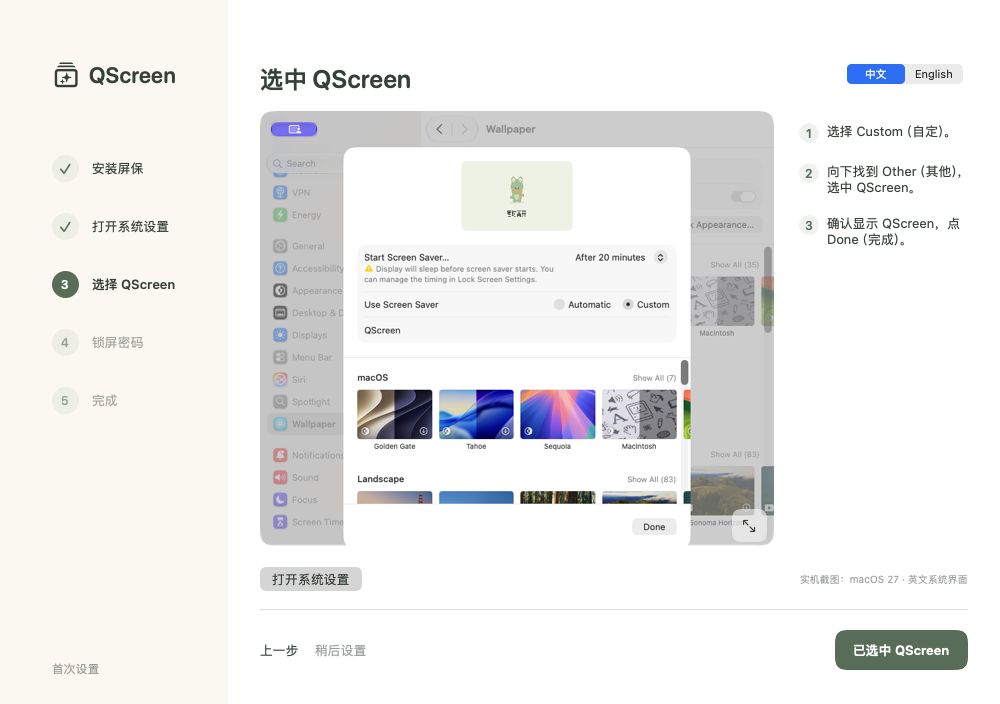
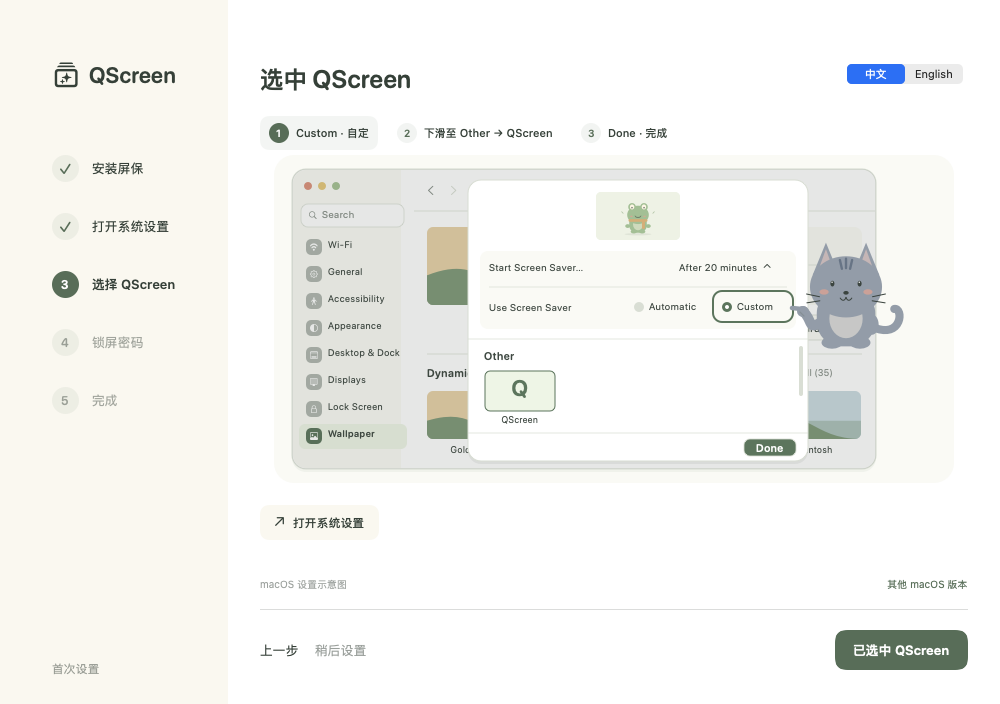
Release 0.5.1 with illustrated setup previews and reference documentation

Changed region(s): [[0.248, 0.1562, 0.961, 0.8438], [0.806, 0.8125, 0.961, 0.8438]]

diff --git a/README.md b/README.md
@@ -42,12 +42,12 @@ bash scripts/install.sh
 首次打开会自动进入独立的五步设置向导：
 
 1. 安装屏保；已安装时会直接显示检查结果。
-2. 打开系统「墙纸」，按实机截图找到顶部的「Screen Saver…／屏幕保护程序」。
+2. 打开系统「墙纸」，按卡通示意图找到顶部的「Screen Saver…／屏幕保护程序」。
 3. 选择「Custom／自定」，在「Other／其他」中选中 QScreen，点 Done 后回到向导确认。这是用户确认，App 不会修改系统的屏保选择。
 4. 在系统「锁屏」设置中，将启动屏保后要求输入密码设为「Immediately／立即」。向导会检测策略，未确认立即要求密码时不能完成。
 5. 预览并开始使用。预览不锁屏；完成设置会再次检查安装、选择确认与密码策略。
 
-向导附带 macOS 27 的真实系统设置截图，可点击右下角图标放大。截图为静态资源，使用向导不需要录屏或辅助功能权限。旧版系统的界面可能不同，向导提供 Apple 的对应帮助入口。
+三页设置指引使用统一尺寸的卡通模拟窗口，控件布局参考 macOS 27。小熊、猫咪和青蛙用短手臂指向要点击的位置；选择屏保时可依次查看 Custom、下滑至 Other → QScreen 和 Done 三个位置。操作按钮固定在示意图下方。示意图由 App 原生绘制，使用向导不需要录屏或辅助功能权限；旧版系统可打开 Apple 的对应帮助入口。
 
 未完成就退出时，下次打开会恢复进度；「稍后设置」不会被标记为完成。已有用户升级后不会被强制重走，可在「设置 → 设置向导」重新打开。
 
@@ -75,7 +75,7 @@ bash scripts/install.sh
 
 自动测试覆盖倒计时边界、超时、损坏数据、状态过期、睡眠后时间连续性、亮屏截止时间、跨进程状态读写、不同偏好域之间的实时状态同步和清除、中英文切换与持久化、英文分钟单复数、六种画面的双语渲染，以及原生 `.saver` 的加载和启停。`--smoke-test` 还会输出中英文 App、设置页和快速菜单截图，以及时长保存和语言切换结果到 `/tmp/qscreen-smoke/`，不会触发锁屏。
 
-`--setup-smoke-test` 会在 `/tmp/qscreen-setup-smoke/` 生成中英文共十张向导截图，检查资源载入、进度恢复和完成条件，并恢复测试前的向导偏好。流程单元测试覆盖首次使用、未完成恢复、已有用户迁移、损坏的进度及缺失设置的组合。
+`--setup-smoke-test` 会在 `/tmp/qscreen-setup-smoke/` 生成中英文共十张向导截图，同时渲染五个指示位置的 680 × 328 卡通示意图，检查进度恢复和完成条件，并恢复测试前的向导偏好。流程单元测试覆盖首次使用、未完成恢复、已有用户迁移、损坏的进度及缺失设置的组合。
 
 绘制测试还会模拟系统无法创建圆角字体的情况，验证回退字体不会导致 App 或屏保崩溃。锁定策略测试验证延迟密码、未知状态、失败命令及矛盾输出都不能启动离席。启动诊断记录在 `~/Library/Logs/QScreen/`，仅包含本地运行状态；`open -g qscreen://diagnostics` 可刷新当前锁定策略和安装状态快照。
 

diff --git a/docs/ACCEPTANCE.md b/docs/ACCEPTANCE.md
@@ -12,12 +12,13 @@
 - 0.3.0 双语检查：菜单和设置提供「中文 / English」切换，主窗口和屏保使用同一语言；检查英文分钟单复数、超时及无倒计时文案、跨进程语言持久化、偏好隔离条件下实时切换语言而不重置会话，以及六种屏保的中英文渲染。
 - 0.4.0 自定义检查：在 App 的实际文本框中输入「Walking the dog」和 25 分钟，预览会话通过校验，理由、角色和时长已保存；空理由不能启动。跨进程测试验证自定义理由、角色、25 分钟截止时间和清除操作；原生模块渲染测试覆盖长英文、中文及 emoji。此次没有触发真实锁屏。
 - 0.5.0 设置向导检查：首次使用、未完成恢复、已有用户迁移、损坏进度和所有完成条件组合的单元测试通过。实际 App 渲染中英文共十个步骤页面，三张实机设置截图均正常载入；进度恢复和完成前重新检查通过。原有自定义输入、双语和菜单回归通过。此次没有触发真实锁屏或修改系统安全设置。
+- 0.5.1 设置向导视觉检查：三页共用 680 × 328 画布、窗口几何和字体。五个指示位置均渲染检查，角色使用固定比例的短手臂和小爪子；操作按钮与图保持独立间距。中英文十页渲染及向导恢复、完成条件通过。原有 16 张屏保渲染结果与改动前逐文件一致。
 - Apple Silicon 与 Intel 通用二进制，签名完整性检查。
 - 立即要求密码的策略检测；延迟、失败、未知和矛盾输出均拒绝启动。
 
 ## 首次设置与真实锁屏
 
-先在干净安装环境检查首次打开自动显示五步向导。在第 2 或第 3 步退出 App 后重新打开，应恢复当前步骤；选择「稍后设置」不能标记为完成。完成后再次启动不应重复出现；已有版本用户升级也不应强制出现。系统密码策略不是「立即」或读取失败时，不能通过密码步骤或完成向导。截图放大和旧版系统帮助链接需可正常打开。
+先在干净安装环境检查首次打开自动显示五步向导。在第 2 或第 3 步退出 App 后重新打开，应恢复当前步骤；选择「稍后设置」不能标记为完成。完成后再次启动不应重复出现；已有版本用户升级也不应强制出现。系统密码策略不是「立即」或读取失败时，不能通过密码步骤或完成向导。选择页的三个指示步骤应依次切换到 Custom、Other 中的 QScreen 和 Done；动物手指应落在对应控件旁，不能遮挡目标。三页窗口与文字比例应一致，打开系统设置的按钮应保持同样位置与间距。旧版系统帮助链接需可正常打开。
 
 1. 运行安装脚本，打开 `~/Applications/QScreen.app`。
 2. 在系统选择 QScreen 屏保，回到 App 确认；确认启动屏保后要求密码为「立即」。

diff --git a/docs/reference/setup/README.md b/docs/reference/setup/README.md
@@ -1,0 +1,16 @@
+# macOS layout references
+
+Captured on macOS 27.0.1 on 2026-11-11, with the system interface in English.
+
+- `wallpaper.png`: Wallpaper content area; the account sidebar is excluded.
+- `screen-saver.png`: screen saver sheet with Custom and QScreen selected. No account name or personal photo is visible.
+- `password.png`: Lock Screen content area showing Immediately; the account sidebar is excluded.
+
+These images are design references only and are not bundled with the app. `App/SetupIllustration.swift` draws all onboarding diagrams on a shared 680 × 328 artboard. Window geometry, typography and mascot scale are shared across steps. The mascot moves next to its target so that its arm stays short. The interface labels follow the English macOS settings; the surrounding instructions support Chinese and English.
+
+The app does not record the user's screen or request screen recording or accessibility access.
+
+Apple references:
+
+- https://support.apple.com/guide/mac-help/mchl4b68853d/mac
+- https://support.apple.com/guide/mac-help/mh11784/mac
